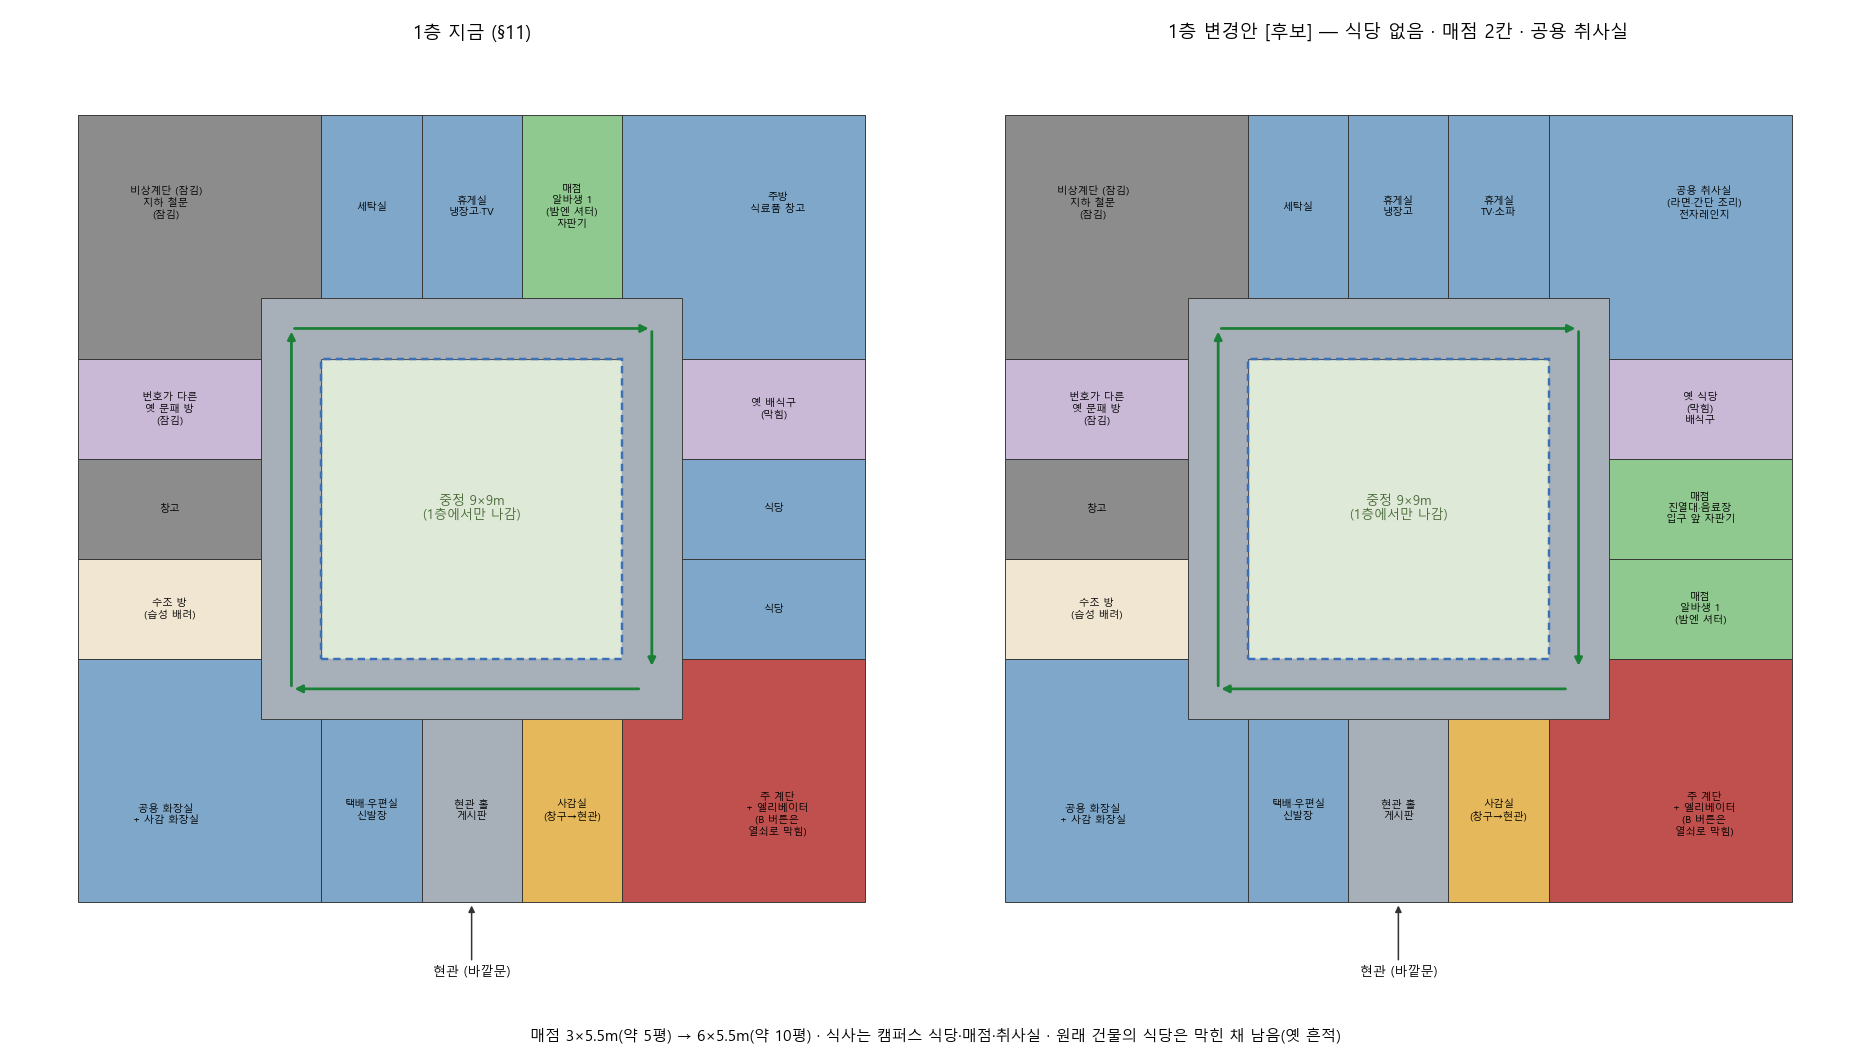
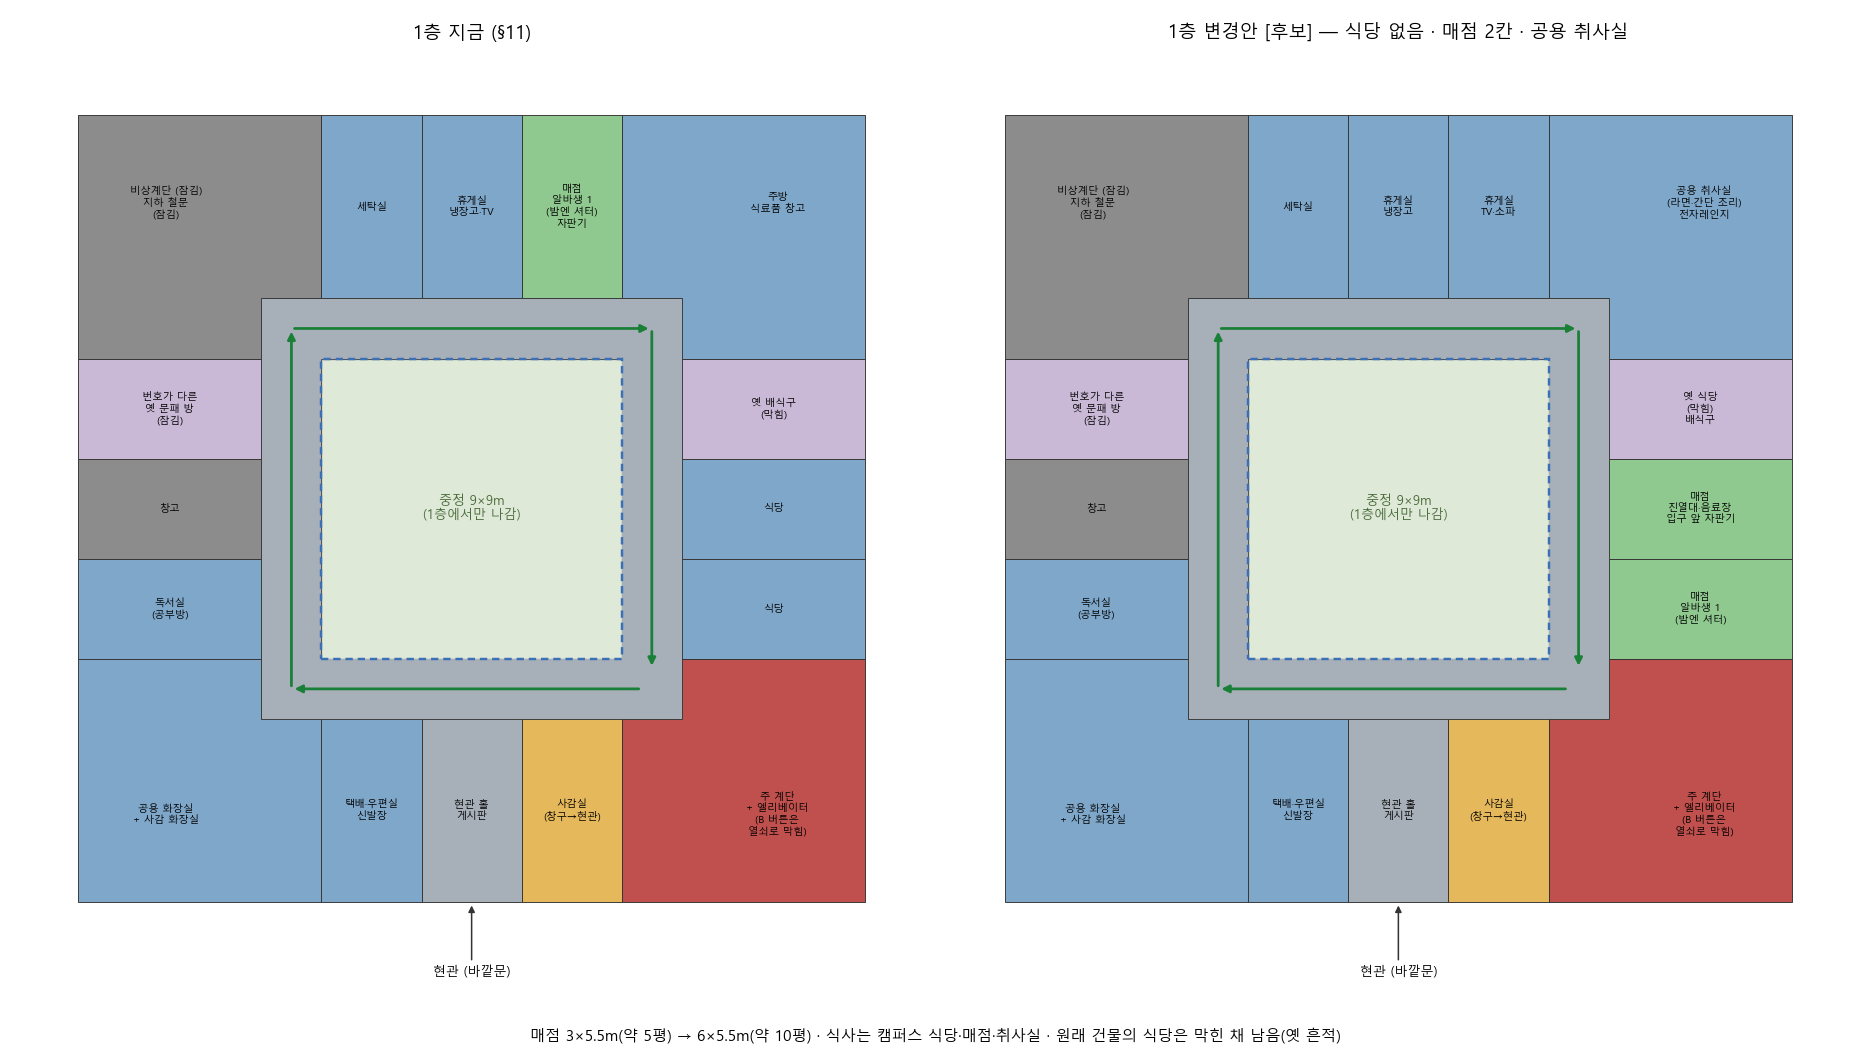
기획: 종족 습성 배려 시설 빼기(수조 방 → 독서실), setting-bible 반영

Changed region(s): [[0.5273, 0.5312, 0.6513, 0.625], [0.031, 0.5312, 0.1551, 0.625]]

diff --git a/tools/dev/building_plan.py b/tools/dev/building_plan.py
@@ -80,7 +80,7 @@ F1_MID = {
 	"S": [("택배·우편실\n신발장", "fac"), ("현관 홀\n게시판", "cor"), ("사감실\n(창구→현관)", "staff")],
 	"E": [("식당", "fac"), ("식당", "fac"), ("옛 배식구\n(막힘)", "old")],
 	"N": [("세탁실", "fac"), ("휴게실\n냉장고·TV", "fac"), ("매점\n알바생 1\n(밤엔 셔터)\n자판기", "shop")],
-	"W": [("수조 방\n(습성 배려)", "room"), ("창고", "lock"), ("번호가 다른\n옛 문패 방\n(잠김)", "old")],
+	"W": [("독서실\n(공부방)", "fac"), ("창고", "lock"), ("번호가 다른\n옛 문패 방\n(잠김)", "old")],
 }
 F1_CORNER = {"SE": ("주 계단\n+ 엘리베이터\n(B 버튼은\n열쇠로 막힘)", "stair"), "SW": ("공용 화장실\n+ 사감 화장실", "fac"),
 	"NE": ("주방\n식료품 창고", "fac"), "NW": ("비상계단 (잠김)\n지하 철문\n(잠김)", "lock")}

diff --git a/docs/STATUS.md b/docs/STATUS.md
@@ -22,6 +22,7 @@ _마지막 갱신: 2026-11-28 · **새 채팅은 PC Claude Code에서 시작 —
 7. 사용자 결정 대기: 건물 이름 · 메인 기숙생 고르기 · 게임 길이 · 가제 · 밤 방식(어두운 빛 / 거친 저해상도) · 정확한 등신(작업값 5.5)
 
 ## 최근 완료
+- 2026-11-28: **1층 변경안 · 습성 시설 빼기** — 매점 2칸(10평)·식당 대신 공용 취사실·옛 식당 흔적 [후보, 사용자 확인 대기] · 종족 습성 배려 시설(수조 방·암실·둥지 방) 빼기 [확정] → 그 자리 독서실 · setting-bible 같이 고침 (building-layout §12·§13)
 - 2026-11-28: **건물 결정 2차** — 매점 알바생 1명·물건 구매 [확정] · 엘리베이터(주 계단 옆, B 버튼 열쇠로 막힘) [확정] · 지하 = 잠긴 의문의 공간 [확정 방향] · 시대감 80~90년대 [작업값] · 크기 추천안 방 3×5.5m·복도 1.8m → 바깥 23.6m·중정 9m·한 바퀴 43m · 평면 다시 그림 (building-layout §11)
 - 2026-11-28: **건물 모양 확정 · 1·2층 평면 초안** — ㅁ자 중정 + 원래 기숙사가 아닌 건물 [확정] · 27×27m, 편복도 고리(복도에서 늘 중정 창), 주 계단 1 + 비상계단(잠김), 1층 사감실 = 현관 창구 옆 · 1층 매점(사용자 추가) · 2~4층 2인실 10 + 옛 4인실 1, 방 번호 = 시계 방향 순찰 순서 · 수칙 6 '복도 끝 창문' = 4층 막다른 구석 (building-layout §10)
 - 2026-11-28: **실제 기숙사 건물 조사** — 유형(중복도·편복도·회로형·계단실·중정) · 사례(교토 요시다료·이화 빌링슬리관·미국 여자 기숙사 하우스마더·Gentry Hall '남자는 위층 금지') · 치수 · 조사 결과 ㅁ자 기숙사는 드묾 → C면 '원래 기숙사가 아닌 건물'(조각만) [후보] (building-layout §9)
@@ -31,7 +32,6 @@ _마지막 갱신: 2026-11-28 · **새 채팅은 PC Claude Code에서 시작 —
 - 2026-11-28: **사용자 걸어 보기 소감 · Unreal 걷기 고침** — 그림·현실 밤 Unreal 우세, 걷기 Unity 우세(Unreal 6 m/s 달리기) → Unreal 2.6 m/s·숙이기(Shift 켜고 끄기) 추가 · 엔진 Unreal 기울어짐 [후보] (engine-test-corridor §5-5)
 - 2026-11-28: **두 엔진 걸어 보기 준비** — Unity 실행 파일(1인칭·현실도 1~5·N 밤·F 손전등·fps 표시, 약 350~480 fps) · Unreal은 엔진 1인칭 템플릿 + 편집기 플레이(120 fps 상한) · 둘 다 Claude가 스스로 찍어 확인 · 실행 `dorm-engine-test/walk_*.bat` (engine-test-corridor §5-4)
 - 2026-11-28: **엔진 시험 Unreal 끝 · 두 엔진 비교** — Unreal 5.8.4 Lumen + 후처리 카툰으로 같은 21장, 편집기 클릭 0번, 약 26분(오류 6번 고침) · 정지 화면 고점은 Unreal 조금 우세(현실 깊이감·외곽선), Claude 다루기는 비슷 · fps 미측정 (engine-test-corridor §5-2·5-3)
-- 2026-11-28: **엔진 시험 Unity 끝** — 카툰↔현실 셰이더·복도 자동 짓기·21장 자동 촬영, 설치 뒤 편집기 클릭 0번 · 카툰 점광원 동심원은 고칠 것 · CC0 자산 616개(재질 244·모델 66·하늘 12, 5.4GB) `dorm-engine-test/free_assets` · Unreal 5.8.4 설치 중 (engine-test-corridor §5-1)
 
 ## 막힌 것 / 확인 필요
 - 구미호로 만든 3D 시험 대역(툰 셰이더·표정 바꾸기 층·시험 장면)은 마네킹 [확정]과 겹쳐 main에 안 넣음 → 브랜치 `char3d-kumiho-placeholder`에 보관(2026-11-26).
